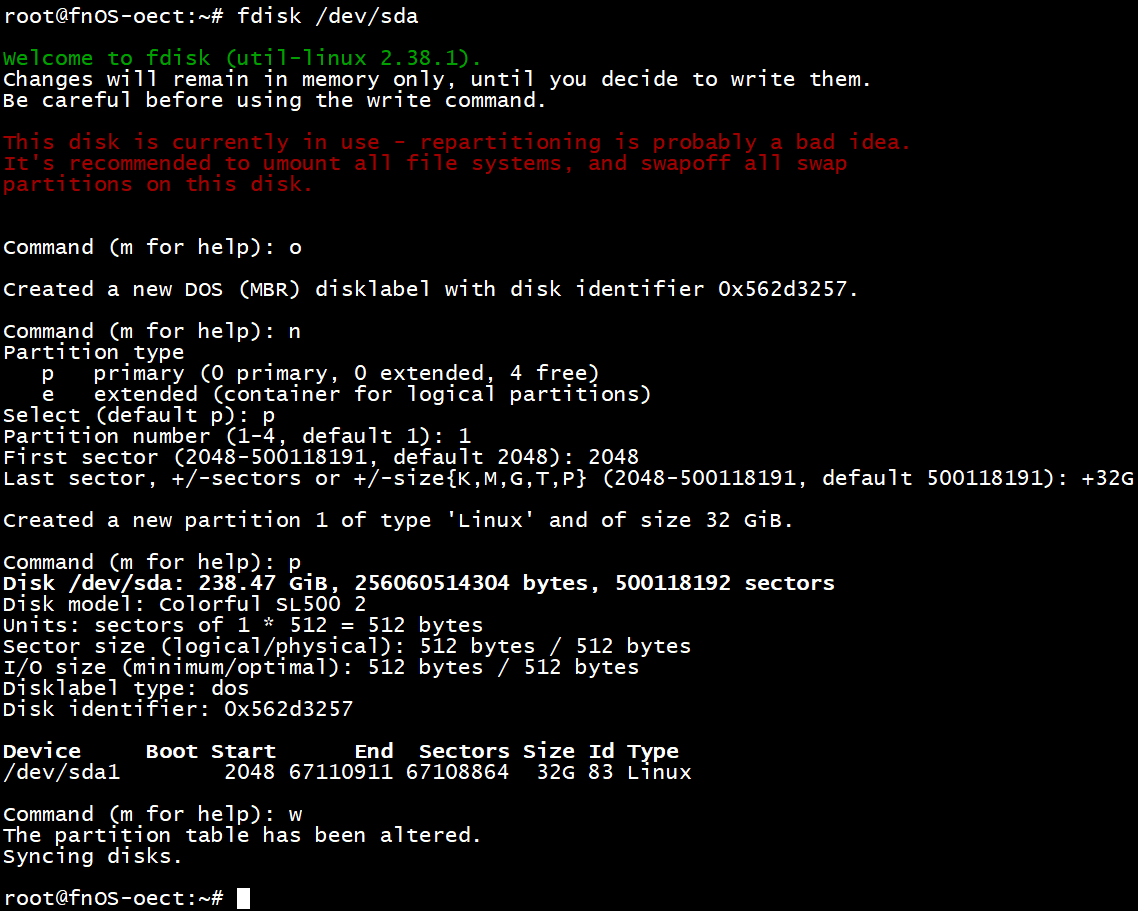
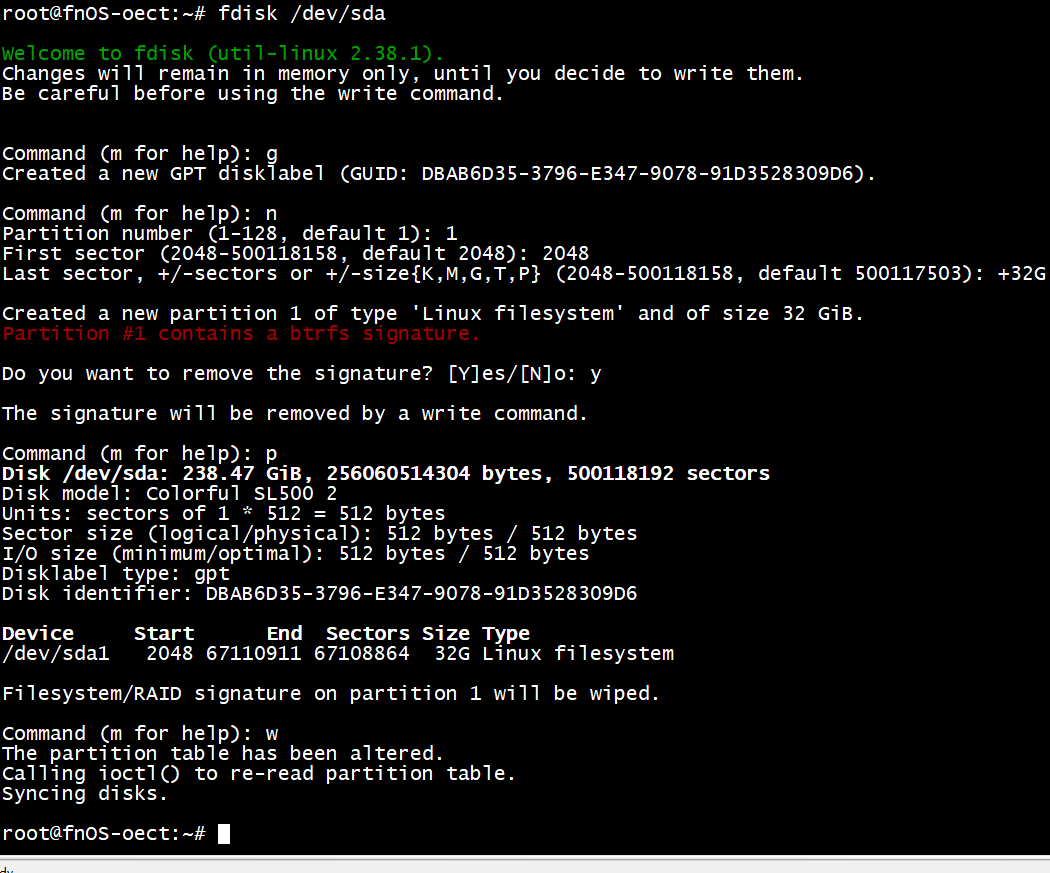
调整文章内容

Changed region(s): [[0.0, 0.0, 1.0, 1.0], [0.9752, 0.4948, 1.0, 0.5567], [0.9448, 0.3093, 1.0, 0.3402]]

diff --git a/source/_posts/oec-turbo.md b/source/_posts/oec-turbo.md
@@ -353,7 +353,144 @@ sudo nmcli connection modify "Wired connection 1" 802-3-ethernet.cloned-mac-addr
 sudo nmcli connection up "Wired connection 1"
 ```
 
-## 七、迁移系统至SATA盘
+## 七、迁移系统至U盘
+
+> 当前U盘的主控是`慧荣SM3267AE`。
+> JEYI佳翼硬盘盒转M2，主控是`RTL9201C`，不兼容，感觉应该是握手协议不稳定的问题。
+
+
+当前设备是插入了`SATA硬盘`和`USB盘`的, 所以`USB盘`的设备路径应该是`/dev/sdb`。
+如果没有插入`SATA硬盘`，`USB盘`的设备路径应该是`/dev/sda`，这里不要用错了。
+
+### 7.1 U盘分区
+
+```
+ 进入 fdisk 交互界面
+fdisk /dev/sdb
+```
+
+{% asset_img fdisk-usb.png 对U盘进行分区 %}
+
+这里只新建一个分区，剩余的容量可用作为软件安装的存储空间，在web后台操作即可。
+
+
+### 7.2 克隆分区至U盘
+
+`dd`命令是块级别拷贝，会把导致`UUID`等信息一模一样，所以需要处理。
+
+```bash
+# 克隆前先卸载分区
+umount /dev/sdb1
+
+# 克隆根分区至U盘的系统分区
+dd if=/dev/mmcblk0p2 of=/dev/sdb1 bs=4M status=progress conv=fsync
+
+# 更换UUID，不然会和 /dev/mmcblk0p2 一模一样
+# 执行 blkid /dev/mmcblk0p2 和 blkid /dev/sdb1 ，对比便知
+btrfstune -u /dev/sdb1
+```
+
+{% asset_img dd-usb.png 对U盘克隆和修改UUID %}
+
+
+### 7.3 U盘根分区扩容
+
+`dd`命令是块级别拷贝，会把导致容量显示和克隆源头信息一模一样，所以需要处理。
+
+```
+# 创建临时挂载点
+mkdir -p /tmp/sata_root
+
+# 挂载格式化后的分区
+mount /dev/sdb1 /tmp/sata_root
+
+# 强制扩容文件系统至分区上限
+btrfs filesystem resize max /tmp/sata_root
+
+# 3. 验证容量是否变回 32GB
+df -h /tmp/sata_root
+```
+
+{% asset_img resize-usb-max.png 对U盘根分区扩容 %}
+
+
+### 7.4 修改U盘fstab
+
+```bash
+# 查看原始内容
+cat /tmp/sata_root/etc/fstab
+
+# 替换 /dev/mmcblk0p2 为 /dev/sdb1
+sed -i 's|/dev/mmcblk0p2|/dev/sdb1|g' /tmp/sata_root/etc/fstab
+
+# 验证替换结果, 应该为 /dev/sdb1
+grep -e sdb1 /tmp/sata_root/etc/fstab
+```
+
+{% asset_img edit-usb-fstab.png 切换为sdb1 %}
+
+
+### 7.4 从U盘启动
+
+从U盘启动需要修改`/boot/extlinux/extlinux.conf` 文件。
+
+```bash
+# 查看原始内容
+cat /boot/extlinux/extlinux.conf
+
+# 替换 /dev/mmcblk0p2 为 /dev/sdb1
+sed -i 's|root=/dev/mmcblk0p2|root=/dev/sdb1|g' /boot/extlinux/extlinux.conf
+
+# 验证替换结果, 应该为 /dev/sdb1
+grep -e sdb1 /boot/extlinux/extlinux.conf
+```
+
+{% asset_img switch-usb-boot.png 改为从U盘启动 %}
+
+
+### 7.5 重启系统并验证
+
+```bash
+# 卸载SATA临时挂载点
+umount /tmp/sata_root
+
+# 重启
+reboot
+```
+
+重新进`ssh`控制台，验证切换结果。
+
+```bash
+# 确认 /dev/sdb1 的挂载点是 / ，表示切换成功了
+df -h
+```
+
+{% asset_img usb-boot-info.png 确认是从U盘启动 %}
+
+
+### 7.6 总结
+
+迁移采用的是`dd`命令，块级别克隆方案，然后再扩容的办法，优点就是比文件拷贝更靠谱。
+
+然后就是设备认USB硬件！！！
+
+1. 这里的U盘主控芯片是`慧荣SM3267AE - ISP (180806-001)`。
+
+- 主控厂商：SMI（慧荣）
+- 主控型号：SM3267AE - ISP 180509-0AE
+- 闪存识别码: 453CA5937ED0 - WDC(西部数据) SDTNRHDMC-128G - 4CE/单通道 [MLC-16K] -> 总容量 = 128GB
+- 闪存类型：MLC
+- 容量：128GB
+
+    {% asset_img usbinfo.png 确认是从U盘启动 %}
+
+
+2. 另一个`JEYI佳翼`M.2移动硬盘盒 NVME/SATA双协议，主控是`RTL9210C`，固态是`海力士BC711-2242`。
+整个组合不可用，应该是硬盘盒与设备硬件层面的不兼容。
+大概率是硬盘盒供电问题或者UASP握手协议不稳定导致，因为有时候会出现丢盘现象。
+
+
+## 八、迁移系统至SATA盘
 
 > 个别设备无法从`USB`的根分区启动系统，很不幸我手上这台设备就是。
 > 请切换到`root`用户执行以下操作。
@@ -378,7 +515,7 @@ sudo nmcli connection up "Wired connection 1"
     ```
 
 
-### 7.1、查看SATA盘分区
+### 8.1、查看SATA盘分区
 
 ```
 # 查看设备
@@ -389,7 +526,7 @@ lsblk
 
 sda就是sata硬盘，sda1就是分区，我这个盘有2个区，飞牛自动挂载到了`/vol00/Colorful SL500 256GB`，重新分区，要先把这个分区卸载。
 
-### 7.2、卸载SATA盘分区
+### 8.2、卸载SATA盘分区
 
 {% asset_img umount-sda1.png 卸载SATA盘分区 %}
 
@@ -404,9 +541,9 @@ lsblk
 命令中的挂载路径要根据实际路径修改，如果有多个分区被挂载了，都要卸载一遍，卸载过后可以再`lsblk`查看一下是否卸载成功。
 
 
-### 7.3、SATA盘重新分区
+### 8.3、SATA盘重新分区
 
-#### 7.3.1. SATA盘创建两个分区
+#### 8.3.1. SATA盘创建两个分区
 
 假设SATA盘在系统中识别为 /dev/sda（请先执行`lsblk`命令确认，写错盘符会清空错误磁盘）。
 
@@ -424,10 +561,6 @@ fdisk /dev/sda
 | 1 | 分区号 1 |
 | 回车 | 默认起始扇区2048 |
 | +32G | 给系统分区 32G 空间 |
-| n | 新建分区（存储分区） |
-| 2 | 分区号 2 |
-| 回车 | 默认起始扇区 |
-| 回车 | 默认结束扇区（占满剩余空间） |
 | p | 打印最终分区表信息，用于确认 |
 | w | 保存并退出 |
 
@@ -435,7 +568,7 @@ fdisk /dev/sda
 
 这里只建了一个32G的分区，大小可以随意调节。剩余的空间先不创建分区，后面可以在飞牛内创建存储空间。
 
-#### 7.3.2. 格式化分区
+#### 8.3.2. 格式化分区
 
 ```bash
 # 系统分区格式化为 btrfs（与当前飞牛系统一致）
@@ -445,7 +578,7 @@ mkfs.btrfs -f /dev/sda1
 {% asset_img mkfs-btrfs.png 格式化分区 %}
 
 
-### 7.4、克隆根系统到SATA盘
+### 8.4、克隆根系统到SATA盘
 
 > 推荐用方案一，减少`rsync`同步文件带来的权限等不可确定性。DD命令块拷贝更可靠。
 
@@ -468,13 +601,21 @@ dd if=/dev/loop0p2 of=/dev/sda1 bs=4M status=progress conv=fsync
 losetup -D
 ```
 
-校验克隆结果：
-```
+系统扩容, 扩容`SATA`系统分区：由于镜像只有3.4G，我们需要让它填满 32G 的 sda1。
+不扩容的话内置系统盘显示3.XG。
+
+```bash
 # 创建临时挂载点
 mkdir -p /tmp/sata_root
 
 # 挂载格式化后的分区
 mount /dev/sda1 /tmp/sata_root
+
+# 强制扩容文件系统至硬件上限
+btrfs filesystem resize max /tmp/sata_root
+
+# 3. 验证容量是否变回 32GB
+df -h /tmp/sata_root
 ```
 
 
@@ -501,11 +642,11 @@ rsync -aAXv \
 执行上面的命令，克隆根分区等几分钟就好了。
 
 
-### 7.5、切换启动分区
+### 8.5、切换启动分区
 
 > 调整为从`SATA`硬盘的根分区启动
 
-#### 7.5.1. 修改`fstab`文件
+#### 8.5.1. 修改`fstab`文件
 
 修改`SATA`硬盘分区上的`fstab`文件，指定新的根分区挂载，原`eMMC`根分区的`fstab`不需要修改。
 
@@ -522,7 +663,7 @@ sed -i 's|/dev/mmcblk0p2|/dev/sda1|g' /tmp/sata_root/etc/fstab
 grep -e sda1 /tmp/sata_root/etc/fstab
 ```
 
-#### 7.5.2. 修改`extlinux`引导配置
+#### 8.5.2. 修改`extlinux`引导配置
 
 修改`/boot/extlinux/extlinux.conf`引导配置文件，决定系统是从`eMMC`启动还是`SATA`启动的关键。
 
@@ -539,7 +680,7 @@ sed -i 's|root=/dev/mmcblk0p2|root=/dev/sda1|g' /boot/extlinux/extlinux.conf
 grep -e sda1 /boot/extlinux/extlinux.conf
 ```
 
-#### 7.5.3. 重启系统并验证
+#### 8.5.3. 重启系统并验证
 
 ```bash
 # 卸载SATA临时挂载点
@@ -549,7 +690,9 @@ umount /tmp/sata_root
 reboot
 ```
 
-重新进`ssh`控制台，验证切换结果
+如果使用的方案一进行的克隆迁移，请先登录网页版本进行后台，开启`SSH`权限。
+
+重新进`ssh`控制台，验证切换结果。
 
 ```bash
 # 确认 /dev/sda1 的挂载点是 / ，表示切换成功了
@@ -557,7 +700,7 @@ df -h
 ```
 
 
-#### 7.5.4. 恢复从`eMMC`启动
+#### 8.5.4. 恢复从`eMMC`启动
 
 ```bash
 # 替换回从eMMC启动
@@ -573,7 +716,7 @@ reboot
 **注意：千万不要用`eMMC`创建存储空间，因为`boot`分区还在`eMMC`里，`boot`分区被删除就启动不了了，只能用`SATA`硬盘的剩余空间或者外接存储创建。**
 
 
-## 八、迁移后的系统升级
+## 九、迁移后的系统升级
 
 > 需要两边都做升级处理，先切换回`eMMC`升级，还原`boot`分区，再切回`SATA`升级。
 
@@ -586,14 +729,14 @@ reboot
 sudo -i
 ```
 
-### 8.1. 备份`eMMC`的`boot`分区
+### 9.1. 备份`eMMC`的`boot`分区
 
 ```bash
 # 备份boot分区
 dd if=/dev/mmcblk0p1 of=./boot-partition-backup_1.2.0302.img bs=4M status=progress
 ```
 
-### 8.2. 从`eMMC`启动系统
+### 9.2. 从`eMMC`启动系统
 
 ```bash
 sed -i 's|root=/dev/sda1|root=/dev/mmcblk0p2|g' /boot/extlinux/extlinux.conf
@@ -605,11 +748,11 @@ grep -e root /boot/extlinux/extlinux.conf
 reboot
 ```
 
-### 8.3. 从`eMMC`升级系统
+### 9.3. 从`eMMC`升级系统
 
 在后台进行系统升级操作，等待系统升级完毕自动重启。
 
-### 8.4. 备份`eMMC`新`boot`分区
+### 9.4. 备份`eMMC`新`boot`分区
 
 进入`eMMC`系统的控制台，备份最新版的`boot`分区。
 
@@ -617,7 +760,7 @@ reboot
 dd if=/dev/mmcblk0p1 of=./boot-partition-backup_1.2.1010.img bs=4M status=progress
 ```
 
-### 8.5. 还原`boot`分区为旧版
+### 9.5. 还原`boot`分区为旧版
 
 ```
 # 先卸载boot分区
@@ -633,11 +776,11 @@ grep -e sda1 /boot/extlinux/extlinux.conf
 reboot
 ```
 
-### 8.6. 从`SATA`升级系统
+### 9.6. 从`SATA`升级系统
 
 进入`SATA`版本的系统后台，操作升级，等待升级完毕自动重启。
 
-### 8.7. 确认升级结果
+### 9.7. 确认升级结果
 
 登录`ssh`控制台，查看是否是从`SATA`启动系统，如果不是则切换从`SATA`启动系统。
 
@@ -669,7 +812,7 @@ reboot
 后续的操作可以依照此步骤进行手动升级操作。
 
 
-## 九、参考
+## 十、参考
 
 - [OECTurbo 刷机短接点新方法](https://www.right.com.cn/forum/thread-8445911-1-1.html)
 - [网心云OEC/OECTubro的刷机教程/短接技巧/救砖心得](https://www.right.com.cn/forum/thread-8459375-1-1.html)
@@ -686,6 +829,6 @@ reboot
 - [OECT-飞牛系统迁移到SATA硬盘启动+调整系统分区大小【亲测】【命令简单适合小白搬砖】](https://www.right.com.cn/forum/thread-8459871-1-1.html)
 
 
-## 十、附件
+## 十一、附件
 
 本文使用到的软件包已上传网盘：[BlogDocs->files->oec-turbo](https://pan.baidu.com/s/1yEbHDQBzy43uV8gIYXqbnw?pwd=6666#list/path=%2FBlogDocs%2Ffiles%2Foec-turbo)
